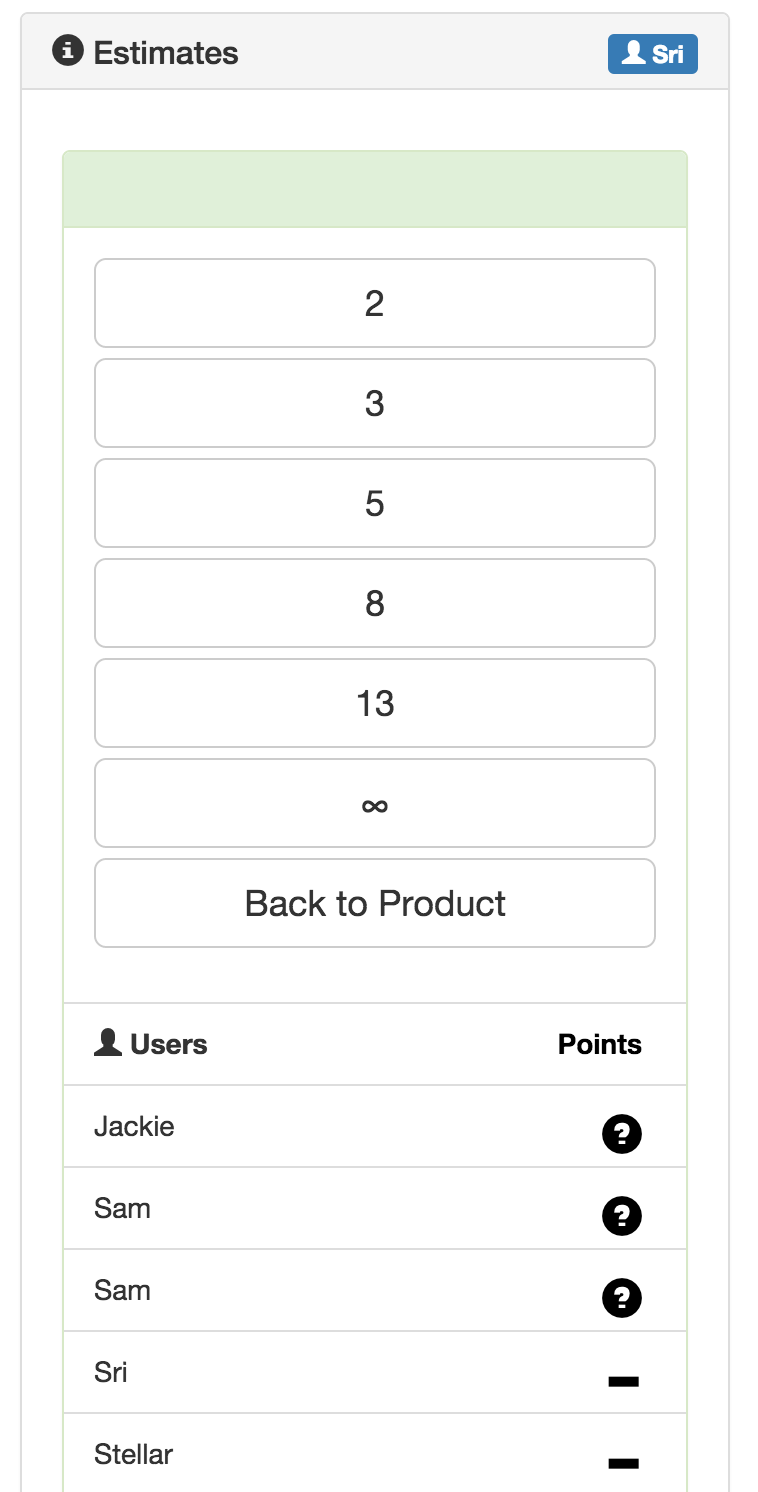
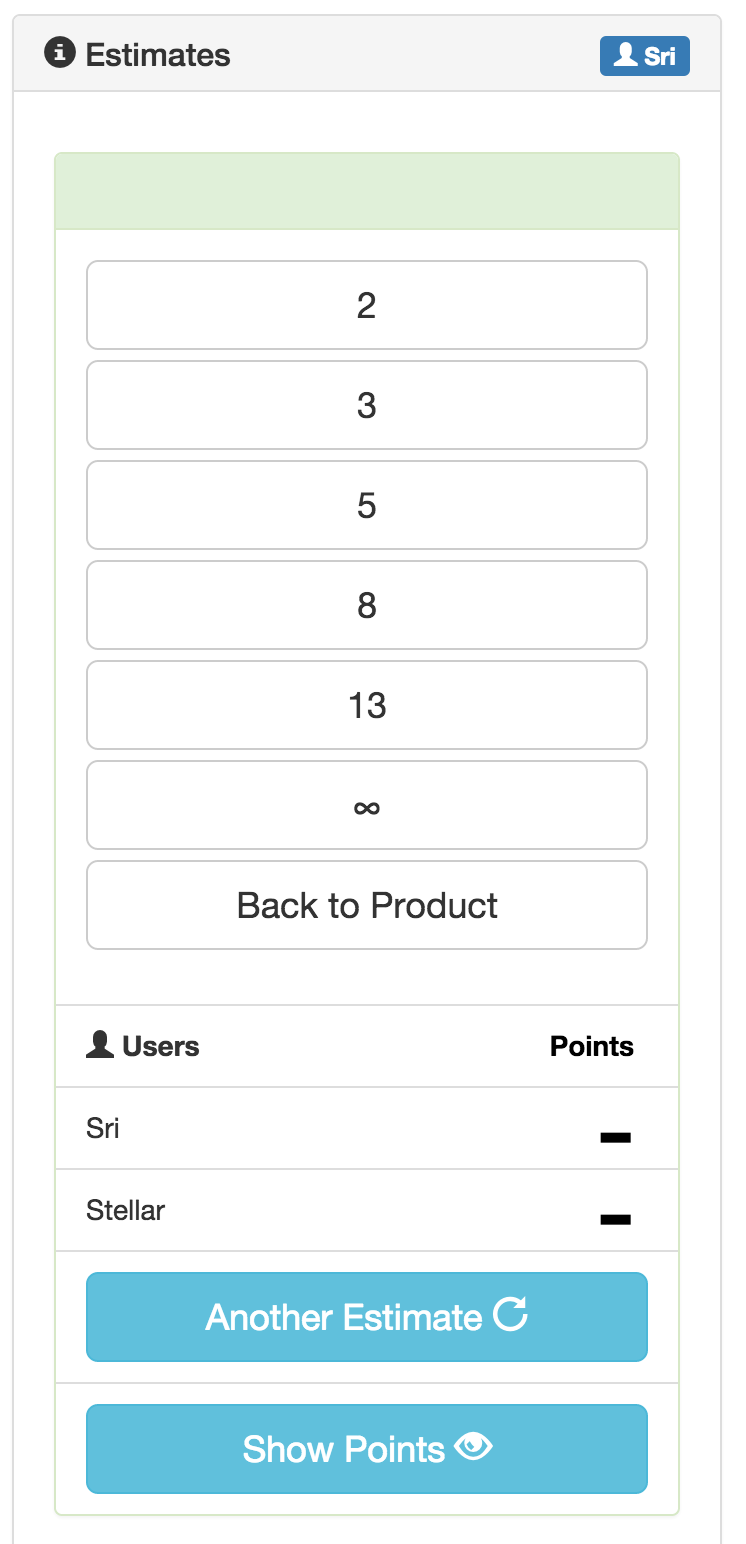
Update with a better mobile UI

diff --git a/README.md b/README.md
@@ -28,8 +28,20 @@ Bugs
 Screenshots
 -----------
 
+### Initial Screen:
+
 ![Inital Screen](https://raw.githubusercontent.com/sri/estimation-poker/master/screenshots/initial.png?raw=true "Initial Screen")
 
-![Voting Screen](https://raw.githubusercontent.com/sri/estimation-poker/master/screenshots/voting.png?raw=true "Voting Screen")
+---
+
+### Voting:
+
+![Voting](https://raw.githubusercontent.com/sri/estimation-poker/master/screenshots/voting.png?raw=true "Voting")
+
+---
+
+### Mobile UI:
 
 ![Mobile UI](https://raw.githubusercontent.com/sri/estimation-poker/master/screenshots/mobile.png?raw=true "Mobile UI")
+
+---
